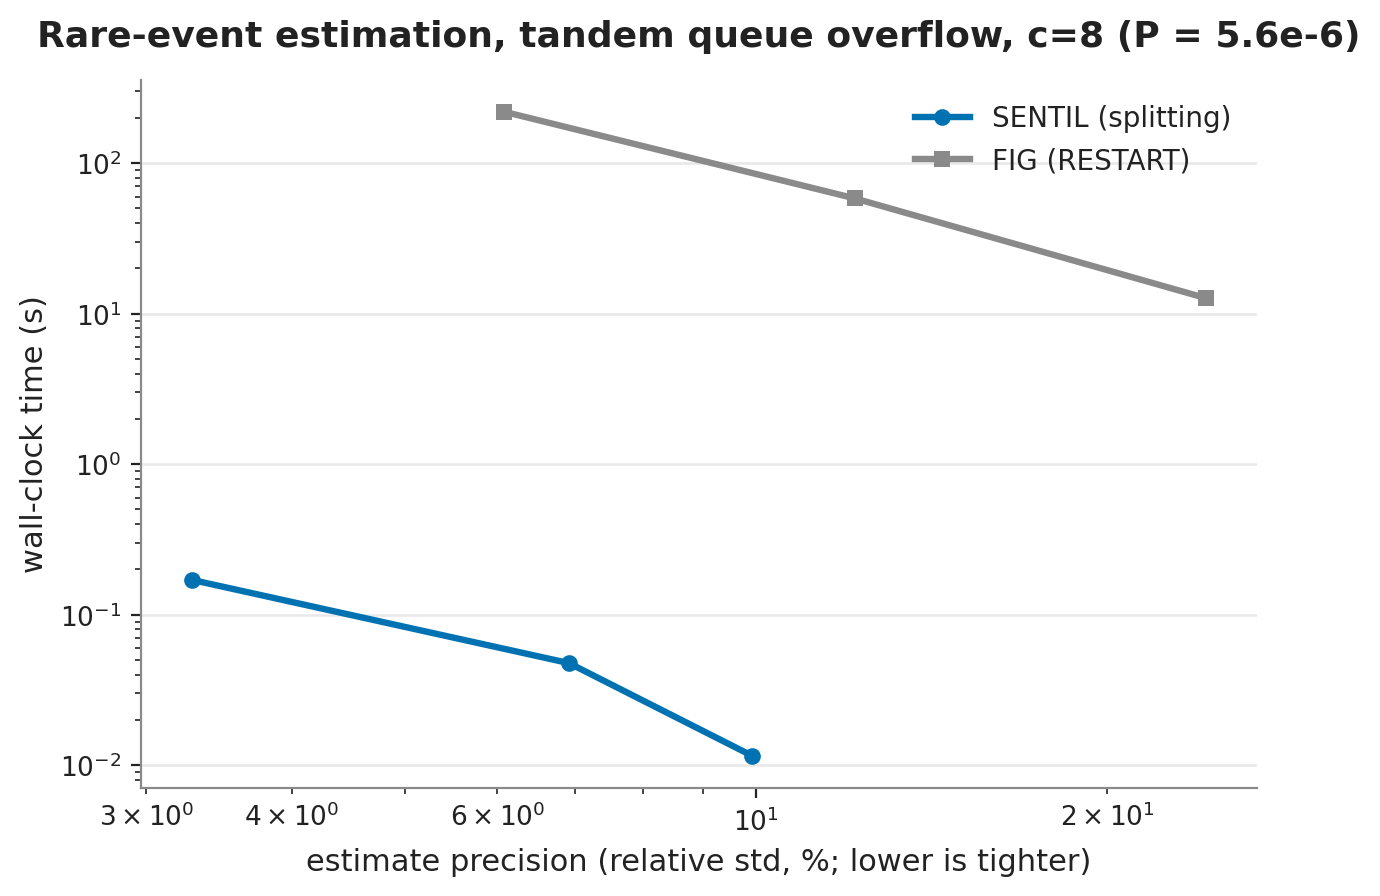
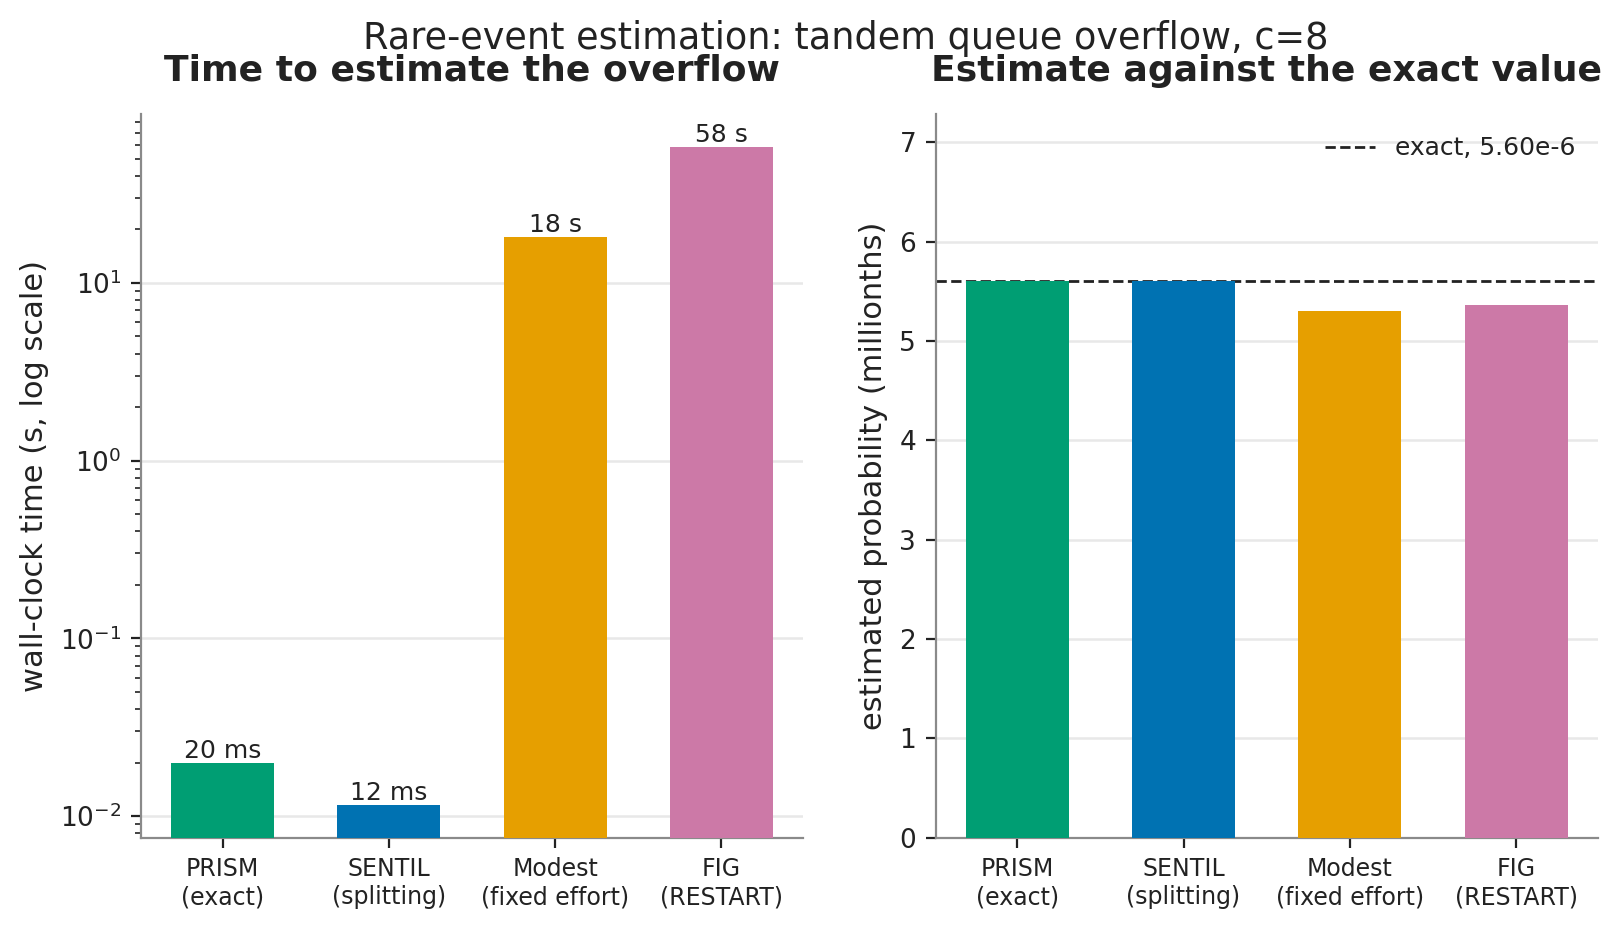
add Modest and PRISM to the rare-event comparison
One baseline is easy to wave off. PRISM computes the tandem overflow exactly, 5.602e-6, which pins the value the splitters are estimating; Modest reaches it by fixed-effort importance splitting. With FIG that is three established tools, all landing on the exact probability, and SENTIL fastest among the simulation methods, about 12 ms against Modest's 18 seconds and FIG's tens of seconds. Redraw the figure as bars: time on the left, estimate against the exact value on the right.

diff --git a/benchmarks/runners/plot.py b/benchmarks/runners/plot.py
@@ -320,24 +320,49 @@ def synthesis(records):
     save(fig, "synthesis.png")
 
 def rare_event(records):
-    sent = [r for r in records
-            if r.get("benchmark") == "rare_event/tandem" and r.get("tool") == "sentil" and r.get("c") == 8]
-    figs = [r for r in records if r.get("benchmark") == "rare_event/tandem" and r.get("tool") == "fig"]
-    if not sent or not figs:
+    rows = [r for r in records if r.get("benchmark") == "rare_event/tandem" and r.get("c") == 8]
+    if not rows:
         return
-    sx = sorted((r["rel_std"] * 100.0, r["time_ms"] / 1000.0) for r in sent)
-    # FIG stops at a relative CI half-width; at 90% confidence the estimate's std is
-    # about that over 1.645, so this puts both tools on the same precision axis.
-    fx = sorted((r["stop_rel_prec"] / 1.645 * 100.0, r["time_ms"] / 1000.0) for r in figs)
-    fig, ax = plt.subplots()
-    ax.plot([p for p, _ in sx], [t for _, t in sx], color=style.TOOL["sentil"], marker="o", label="SENTIL (splitting)")
-    ax.plot([p for p, _ in fx], [t for _, t in fx], color=style.FAINT, marker="s", label="FIG (RESTART)")
-    ax.set_xscale("log")
-    ax.set_yscale("log")
-    ax.set_xlabel("estimate precision (relative std, %; lower is tighter)")
-    ax.set_ylabel("wall-clock time (s)")
-    ax.set_title("Rare-event estimation, tandem queue overflow, c=8 (P = 5.6e-6)")
-    ax.legend(loc="upper right")
+    truth = 5.602338e-6
+
+    def one(tool, **kw):
+        return next((r for r in rows if r["tool"] == tool
+                     and all(r.get(k) == v for k, v in kw.items())), None)
+
+    # One representative run per tool, at a comparable precision, in speed order.
+    picks = [
+        ("PRISM\n(exact)", one("prism"), style.TOOL["prism"]),
+        ("SENTIL\n(splitting)", one("sentil", particles=4000), style.TOOL["sentil"]),
+        ("Modest\n(fixed effort)", one("modest", method="fixed_effort"), style.TOOL["modest"]),
+        ("FIG\n(RESTART)", one("fig", stop_rel_prec=0.2), "#CC79A7"),
+    ]
+    picks = [(n, r, c) for n, r, c in picks if r]
+    labels = [n for n, _, _ in picks]
+    colors = [c for _, _, c in picks]
+    times = [r["time_ms"] / 1000.0 for _, r, _ in picks]
+    ests = [r["estimate"] * 1e6 for _, r, _ in picks]
+
+    fig, (ax1, ax2) = plt.subplots(1, 2, figsize=(9.4, 4.7))
+    bars1 = ax1.bar(range(len(picks)), times, color=colors, width=0.62, zorder=3)
+    ax1.set_yscale("log")
+    ax1.set_ylabel("wall-clock time (s, log scale)")
+    ax1.set_title("Time to estimate the overflow")
+    ax1.set_xticks(range(len(picks)))
+    ax1.set_xticklabels(labels, fontsize=8.5)
+    for rect, t in zip(bars1, times):
+        tag = f"{t:.0f} s" if t >= 1 else f"{t * 1000:.0f} ms"
+        ax1.text(rect.get_x() + rect.get_width() / 2, t, tag, ha="center", va="bottom", fontsize=9, color=style.INK)
+
+    ax2.bar(range(len(picks)), ests, color=colors, width=0.62, zorder=3)
+    ax2.axhline(truth * 1e6, color=style.INK, linestyle="--", linewidth=1.0, zorder=2, label="exact, 5.60e-6")
+    ax2.set_ylabel("estimated probability (millionths)")
+    ax2.set_title("Estimate against the exact value")
+    ax2.set_xticks(range(len(picks)))
+    ax2.set_xticklabels(labels, fontsize=8.5)
+    ax2.set_ylim(0, max(ests) * 1.3)
+    ax2.legend(loc="upper right", fontsize=9)
+
+    fig.suptitle("Rare-event estimation: tandem queue overflow, c=8")
     save(fig, "rare_event.png")
 
 def main():

diff --git a/docs/CLAIMS.md b/docs/CLAIMS.md
@@ -191,9 +191,9 @@ Particle-count convergence. On a Gaussian random walk, the continuous-score regi
 Command: `cargo run --release -p sentil-benchmarks --bin sentil_particle_runner`.
 Expected: the mean relative error decreases with particle count and sits under about 0.15 at 8000 particles for both events. Tolerance: the reference is an 8e6-sample Monte Carlo run in the same runner; the estimate has seed and scheme variance. Tier: CPU. Artifact: `benchmarks/results/sentil_particles.jsonl`.
 
-Rare events against FIG. The tandem-queue overflow, the benchmark FIG is built around, gives a cross-tool check on a discrete-event model. FIG, a dedicated rare-event simulator using RESTART importance splitting, and SENTIL's adaptive multilevel splitting estimate the same `P(q2 > 0 U q2 == c)`: queue two overflows to capacity before it empties. Both land on the exact overflow probability, 5.60e-6 at c=8 from solving the chain's linear system, and SENTIL matches it out to c=12 at 1.86e-8. At a matched 90 percent confidence and about ten percent relative precision SENTIL finishes in about 12 ms where FIG takes about a minute, roughly three to four thousand times faster, since its embedded-chain step is a few arithmetic operations against FIG's general IOSA engine. FIG cannot run the reverse comparison: its bounded-integer-and-clock state cannot express SENTIL's continuous-score Gaussian walk.
-Command: `cargo run --release -p sentil-benchmarks --bin sentil_rare_tandem_runner`; FIG per `benchmarks/baselines/fig`.
-Expected: the estimate matches the exact overflow probability within the splitting variance, and reaches a given precision faster than FIG. Tolerance: the estimate has seed variance; the speedup is machine and load dependent. Tier: CPU and tool-bound. Artifact: `benchmarks/results/rare_event_tandem.jsonl`, `fig_rare_event.jsonl`.
+Rare events against FIG, Modest, and PRISM. The tandem-queue overflow, the benchmark FIG is built around, is a cross-tool check on a discrete-event model: queue two overflows to capacity before it empties, `P(q2 > 0 U q2 == c)`. Three established tools estimate the same probability. PRISM computes it exactly, 5.602e-6 at c=8; FIG and Modest reach it by importance splitting, RESTART and fixed effort; SENTIL by adaptive multilevel splitting. All four land on the exact value, and SENTIL matches it out to c=12 at 1.86e-8. Among the simulation methods SENTIL is the fastest by a wide margin, about 12 ms against Modest's 18 seconds and FIG's tens of seconds at comparable precision, since its embedded-chain step is a few arithmetic operations against their general model engines. PRISM's exact check is as quick here only because the state space is small; it stops being an option once the model is large or continuous, which is where the splitters are needed, and neither FIG nor Modest can express SENTIL's continuous-score Gaussian walk at all.
+Command: `cargo run --release -p sentil-benchmarks --bin sentil_rare_tandem_runner`; the baselines per `benchmarks/baselines/{fig,modest,prism}`.
+Expected: the estimates match the exact overflow probability within their variance, and SENTIL reaches a given precision faster than FIG and Modest. Tolerance: seed variance on the estimates; the speedups are machine and load dependent. Tier: CPU and tool-bound. Artifact: `benchmarks/results/rare_event_tandem.jsonl`, `fig_rare_event.jsonl`, `modest_rare_event.jsonl`, `prism_rare_event.jsonl`.
 
 ## Embedded deployment, Raspberry Pi 4
 

diff --git a/benchmarks/baselines/prism/README.md b/benchmarks/baselines/prism/README.md
@@ -17,3 +17,11 @@ PRISM=<path>/prism bash benchmarks/runners/prism_runner.sh benchmarks/baselines/
 ```
 
 You can also use `make bench-prism` to run everything. It writes `benchmarks/results/prism_smc.jsonl`.
+
+## Rare events
+
+`tandem_overflow.prism` and `tandem_overflow.props` are the tandem queue FIG is built around, with queue two emptying made absorbing so that reaching capacity is the rare overflow. PRISM computes it exactly, `P=? [ q2>0 U q2=c ]`, giving 5.602e-6 at c=8 in a few milliseconds. That is the reference value the simulation tools, SENTIL, FIG and Modest, are scored against; exact model checking is the right tool here because the state space is small, and it stops being an option once the model is large or continuous.
+
+```
+prism tandem_overflow.prism tandem_overflow.props
+```

diff --git a/benchmarks/baselines/modest/README.md b/benchmarks/baselines/modest/README.md
@@ -24,3 +24,13 @@ MODEST=<path>/modest bash benchmarks/runners/modest_runner.sh benchmarks/baselin
 The runner does 10,000 simulation runs with a fixed seed. It writes one JSON record to standard output.
 
 To run all four models, use `make bench-modest`. The command writes `benchmarks/results/modest_smc.jsonl`.
+
+## Rare events
+
+`tandem_overflow.modest` is the tandem queue as a CTMC with queue two emptying made absorbing, so reaching capacity is the rare overflow FIG and SENTIL also estimate. `modes` reaches it with importance splitting:
+
+```
+modest modes tandem_overflow.modest --rare FixedEffort --levels ExpectedSuccess -W 0.1 -C 0.9
+```
+
+It recovers about 5.3e-6 at c=8 against the exact 5.602e-6. The numbers are in `results/modest_rare_event.jsonl`.
